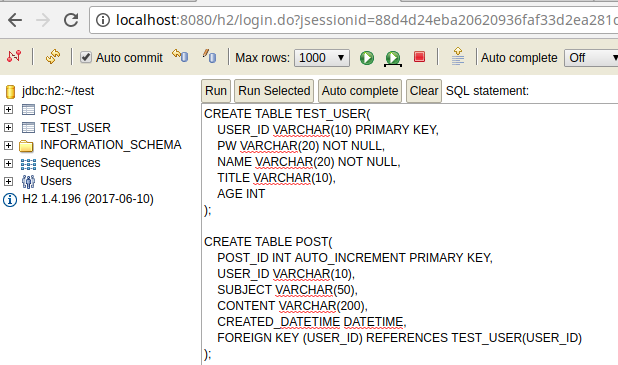
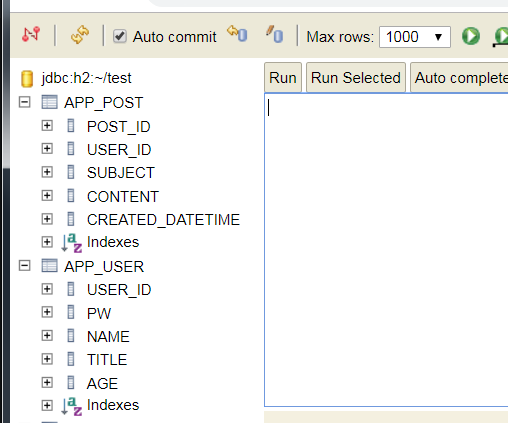
Changed the database schema to app_post and changed model corresponsdingly

diff --git a/src/main/java/brian/template/boot/web/app/controller/AppPostController.java b/src/main/java/brian/template/boot/web/app/controller/AppPostController.java
@@ -13,18 +13,18 @@ import org.springframework.web.bind.annotation.PutMapping;
 import org.springframework.web.bind.annotation.RequestBody;
 import org.springframework.web.bind.annotation.RestController;
 
-import brian.template.boot.web.app.domain.Post;
+import brian.template.boot.web.app.domain.AppPost;
 import brian.template.boot.web.app.exception.CreationException;
 import brian.template.boot.web.app.exception.NotFoundException;
-import brian.template.boot.web.app.service.PostService;
+import brian.template.boot.web.app.service.AppPostService;
 
 @RestController
-public class PostController {
+public class AppPostController {
 
-	private PostService service;
+	private AppPostService service;
 
 	@Autowired
-	public PostController(PostService postService) {
+	public AppPostController(AppPostService postService) {
 		this.service = postService;
 	}
 
@@ -34,7 +34,7 @@ public class PostController {
 	 * @return
 	 */
 	@GetMapping("/posts")
-	public ResponseEntity<List<Post>> getPosts() {
+	public ResponseEntity<List<AppPost>> getPosts() {
 		return new ResponseEntity<>(service.getAllPost(), HttpStatus.OK);
 	}
 
@@ -45,8 +45,8 @@ public class PostController {
 	 * @return
 	 */
 	@GetMapping("/post/{post_id}")
-	public ResponseEntity<Post> getPost(@PathVariable("post_id") Integer postId) {
-		Post p = service.getPost(postId);
+	public ResponseEntity<AppPost> getPost(@PathVariable("post_id") Integer postId) {
+		AppPost p = service.getPost(postId);
 
 		if (p == null)
 			throw new NotFoundException("Post not found with post id : " + postId);
@@ -61,7 +61,7 @@ public class PostController {
 	 * @return
 	 */
 	@PostMapping("/post")
-	public ResponseEntity<Post> addPost(@RequestBody Post post) {
+	public ResponseEntity<AppPost> addPost(@RequestBody AppPost post) {
 
 		if (null == post || null == post.getSubject() || null == post.getContent())
 			throw new IllegalArgumentException("Subject or Content cannot be null");
@@ -80,8 +80,8 @@ public class PostController {
 	}
 
 	@PutMapping("/post")
-	public ResponseEntity<Post> updatePost(@RequestBody Post post) {
-		Post updatedPost = service.updatePost(post);
+	public ResponseEntity<AppPost> updatePost(@RequestBody AppPost post) {
+		AppPost updatedPost = service.updatePost(post);
 
 		return new ResponseEntity<>(updatedPost, HttpStatus.OK);
 	}

diff --git a/src/test/java/brian/template/boot/web/app/service/AppPostServiceTest.java b/src/test/java/brian/template/boot/web/app/service/AppPostServiceTest.java
@@ -13,24 +13,24 @@ import org.mockito.InjectMocks;
 import org.mockito.Mock;
 import org.mockito.junit.MockitoJUnitRunner;
 
-import brian.template.boot.web.app.domain.Post;
-import brian.template.boot.web.app.repository.PostRepository;
-import brian.template.boot.web.app.service.PostService;
+import brian.template.boot.web.app.domain.AppPost;
+import brian.template.boot.web.app.repository.AppPostRepository;
+import brian.template.boot.web.app.service.AppPostService;
 
 @RunWith(MockitoJUnitRunner.class)
-public class PostServiceTest {
+public class AppPostServiceTest {
 
-	@Mock private PostRepository postRepository;
-    @InjectMocks private PostService service;
+	@Mock private AppPostRepository postRepository;
+    @InjectMocks private AppPostService service;
 
-    private List<Post> expectedList;
+    private List<AppPost> expectedList;
 
     @Before
     public void setUp(){
 //        service = new PostService();	// @InjectMocks will initialize it.
 
         expectedList = new ArrayList<>();
-        Post p1 = new Post();
+        AppPost p1 = new AppPost();
         p1.setSubject("test");
         expectedList.add(p1);
     }
@@ -39,8 +39,8 @@ public class PostServiceTest {
     public void testGetAllPost_shouldReturnList(){
 
         // Given
-        List<Post> list = new ArrayList<>();
-        Post p1 = new Post();
+        List<AppPost> list = new ArrayList<>();
+        AppPost p1 = new AppPost();
         p1.setSubject("test");
         list.add(p1);
 
@@ -48,7 +48,7 @@ public class PostServiceTest {
         when(postRepository.findAll()).thenReturn(expectedList);
 
         // Test
-        List<Post> expected = service.getAllPost();
+        List<AppPost> expected = service.getAllPost();
 
         assertThat(list.get(0).getSubject()).isEqualTo(expected.get(0).getSubject());
     }

diff --git a/src/main/java/brian/template/boot/web/app/service/AppPostService.java b/src/main/java/brian/template/boot/web/app/service/AppPostService.java
@@ -7,25 +7,25 @@ import java.util.stream.StreamSupport;
 import org.springframework.beans.factory.annotation.Autowired;
 import org.springframework.stereotype.Service;
 
-import brian.template.boot.web.app.domain.Post;
-import brian.template.boot.web.app.repository.PostRepository;
+import brian.template.boot.web.app.domain.AppPost;
+import brian.template.boot.web.app.repository.AppPostRepository;
 
 @Service
-public class PostService {
+public class AppPostService {
 
 	@Autowired
-	private PostRepository repo;
+	private AppPostRepository repo;
 
-	public List<Post> getAllPost() {
+	public List<AppPost> getAllPost() {
 		return StreamSupport.stream(repo.findAll().spliterator(), false).collect(Collectors.toList());
 	}
 
-	public Post getPost(int postId) {
+	public AppPost getPost(int postId) {
 
 		return repo.findByPostId(postId);
 	}
 
-	public Post addPost(Post post) {
+	public AppPost addPost(AppPost post) {
 		return repo.save(post);
 	}
 
@@ -33,7 +33,7 @@ public class PostService {
 		repo.delete(postId);
 	}
 
-	public Post updatePost(Post post) {
+	public AppPost updatePost(AppPost post) {
 		return repo.save(post);
 	}
 }

diff --git a/src/main/java/brian/template/boot/web/app/repository/AppPostRepository.java b/src/main/java/brian/template/boot/web/app/repository/AppPostRepository.java
@@ -3,11 +3,11 @@ package brian.template.boot.web.app.repository;
 import org.springframework.data.repository.CrudRepository;
 import org.springframework.stereotype.Repository;
 
-import brian.template.boot.web.app.domain.Post;
+import brian.template.boot.web.app.domain.AppPost;
 
 @Repository
-public interface PostRepository extends CrudRepository<Post, Integer>{
+public interface AppPostRepository extends CrudRepository<AppPost, Integer>{
 	
-	public Post findByPostId(Integer postId);
+	public AppPost findByPostId(Integer postId);
 	
 }

diff --git a/src/main/java/brian/template/boot/web/app/domain/AppPost.java b/src/main/java/brian/template/boot/web/app/domain/AppPost.java
@@ -21,8 +21,8 @@ import lombok.Setter;
 @Getter
 @Setter
 @Entity
-@Table(name = "post")
-public class Post {
+@Table(name = "app_post")
+public class AppPost {
 
 	@Id
 	@GeneratedValue(strategy = GenerationType.IDENTITY)
@@ -41,7 +41,7 @@ public class Post {
 	@JsonIgnore
 	private AppUser appUser;
 
-	public Post() {
+	public AppPost() {
 		this.createdDatetime = new Timestamp(new Date().getTime());
 	}
 }

diff --git a/src/main/java/brian/template/boot/web/app/domain/AppUser.java b/src/main/java/brian/template/boot/web/app/domain/AppUser.java
@@ -28,6 +28,6 @@ public class AppUser {
 	private int age;
 
 	@OneToMany(cascade = CascadeType.ALL, fetch = FetchType.LAZY, mappedBy = "appUser")
-	private List<Post> posts;
+	private List<AppPost> posts;
 
 }

diff --git a/README.md b/README.md
@@ -24,7 +24,7 @@ CREATE TABLE APP_USER(
     AGE INT
 );
 
-CREATE TABLE POST(
+CREATE TABLE APP_POST(
     POST_ID INT AUTO_INCREMENT PRIMARY KEY,
     USER_ID VARCHAR(10),
     SUBJECT VARCHAR(50),
@@ -42,15 +42,15 @@ INSERT INTO APP_USER(USER_ID, PW, NAME, TITLE, AGE) VALUES( 'tester1', '1234', '
 INSERT INTO APP_USER(USER_ID, PW, NAME, TITLE, AGE) VALUES('tester2', '1234', 'Phil Lee', 'Mr.', 42);
 INSERT INTO APP_USER(USER_ID, PW, NAME, AGE) VALUES('tester3', '1234', 'Gerrard Lee', 43);
 
-INSERT INTO POST(USER_ID, SUBJECT, CONTENT, CREATED_DATETIME) VALUES( 'tester1', 'Test Subject 1', 'Contents of Test subject 1', CURRENT_TIMESTAMP());
-INSERT INTO POST(USER_ID, SUBJECT, CONTENT, CREATED_DATETIME) VALUES( 'tester2', 'Test Subject 2', 'Contents of Test subject 2', CURRENT_TIMESTAMP());
-INSERT INTO POST(USER_ID, SUBJECT, CONTENT, CREATED_DATETIME) VALUES( 'tester1', 'Test Subject 3', 'Contents of Test subject 3', CURRENT_TIMESTAMP());
-INSERT INTO POST(USER_ID, SUBJECT, CONTENT, CREATED_DATETIME) VALUES( 'tester2', 'Test Subject 4', 'Contents of Test subject 4', CURRENT_TIMESTAMP());
-INSERT INTO POST(USER_ID, SUBJECT, CONTENT, CREATED_DATETIME) VALUES( 'tester1', 'Test Subject 5', 'Contents of Test subject 5', CURRENT_TIMESTAMP());
-INSERT INTO POST(USER_ID, SUBJECT, CONTENT, CREATED_DATETIME) VALUES( 'tester1', 'Test Subject 6', 'Contents of Test subject 6', CURRENT_TIMESTAMP());
-INSERT INTO POST(USER_ID, SUBJECT, CONTENT, CREATED_DATETIME) VALUES( 'tester1', 'Test Subject 7', 'Contents of Test subject 7', CURRENT_TIMESTAMP());
-INSERT INTO POST(USER_ID, SUBJECT, CONTENT, CREATED_DATETIME) VALUES( 'tester3', 'Test Subject 8', 'Contents of Test subject 8', CURRENT_TIMESTAMP());
-INSERT INTO POST(USER_ID, SUBJECT, CONTENT, CREATED_DATETIME) VALUES( 'tester1', 'Test Subject 9', 'Contents of Test subject 9', CURRENT_TIMESTAMP());
+INSERT INTO APP_POST(USER_ID, SUBJECT, CONTENT, CREATED_DATETIME) VALUES( 'tester1', 'Test Subject 1', 'Contents of Test subject 1', CURRENT_TIMESTAMP());
+INSERT INTO APP_POST(USER_ID, SUBJECT, CONTENT, CREATED_DATETIME) VALUES( 'tester2', 'Test Subject 2', 'Contents of Test subject 2', CURRENT_TIMESTAMP());
+INSERT INTO APP_POST(USER_ID, SUBJECT, CONTENT, CREATED_DATETIME) VALUES( 'tester1', 'Test Subject 3', 'Contents of Test subject 3', CURRENT_TIMESTAMP());
+INSERT INTO APP_POST(USER_ID, SUBJECT, CONTENT, CREATED_DATETIME) VALUES( 'tester2', 'Test Subject 4', 'Contents of Test subject 4', CURRENT_TIMESTAMP());
+INSERT INTO APP_POST(USER_ID, SUBJECT, CONTENT, CREATED_DATETIME) VALUES( 'tester1', 'Test Subject 5', 'Contents of Test subject 5', CURRENT_TIMESTAMP());
+INSERT INTO APP_POST(USER_ID, SUBJECT, CONTENT, CREATED_DATETIME) VALUES( 'tester1', 'Test Subject 6', 'Contents of Test subject 6', CURRENT_TIMESTAMP());
+INSERT INTO APP_POST(USER_ID, SUBJECT, CONTENT, CREATED_DATETIME) VALUES( 'tester1', 'Test Subject 7', 'Contents of Test subject 7', CURRENT_TIMESTAMP());
+INSERT INTO APP_POST(USER_ID, SUBJECT, CONTENT, CREATED_DATETIME) VALUES( 'tester3', 'Test Subject 8', 'Contents of Test subject 8', CURRENT_TIMESTAMP());
+INSERT INTO APP_POST(USER_ID, SUBJECT, CONTENT, CREATED_DATETIME) VALUES( 'tester1', 'Test Subject 9', 'Contents of Test subject 9', CURRENT_TIMESTAMP());
 ```
 
 ## Security
